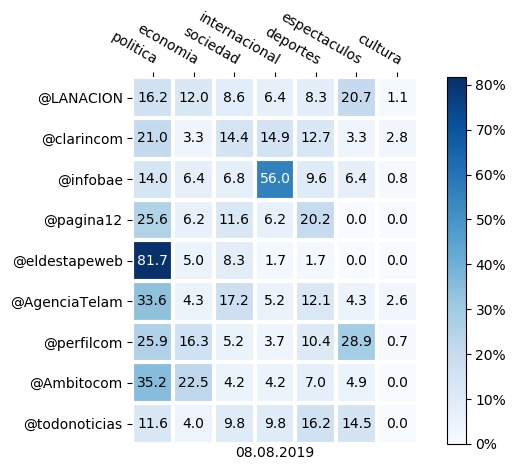
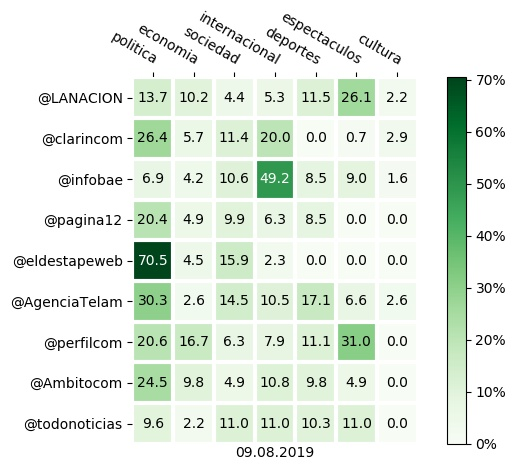
fix categorias paginadoce

diff --git a/medios/diarios/paginadoce.py b/medios/diarios/paginadoce.py
@@ -66,6 +66,9 @@ class PaginaDoce(Diario):
         if categoria == "el mundo":
             categoria = "internacional"
 
+        if categoria == "cultura y espectaculos":
+            categoria = "espectaculos"            
+
         return  categoria, articulo.title, articulo.text
 
     def parsear_categoria(self, html):
